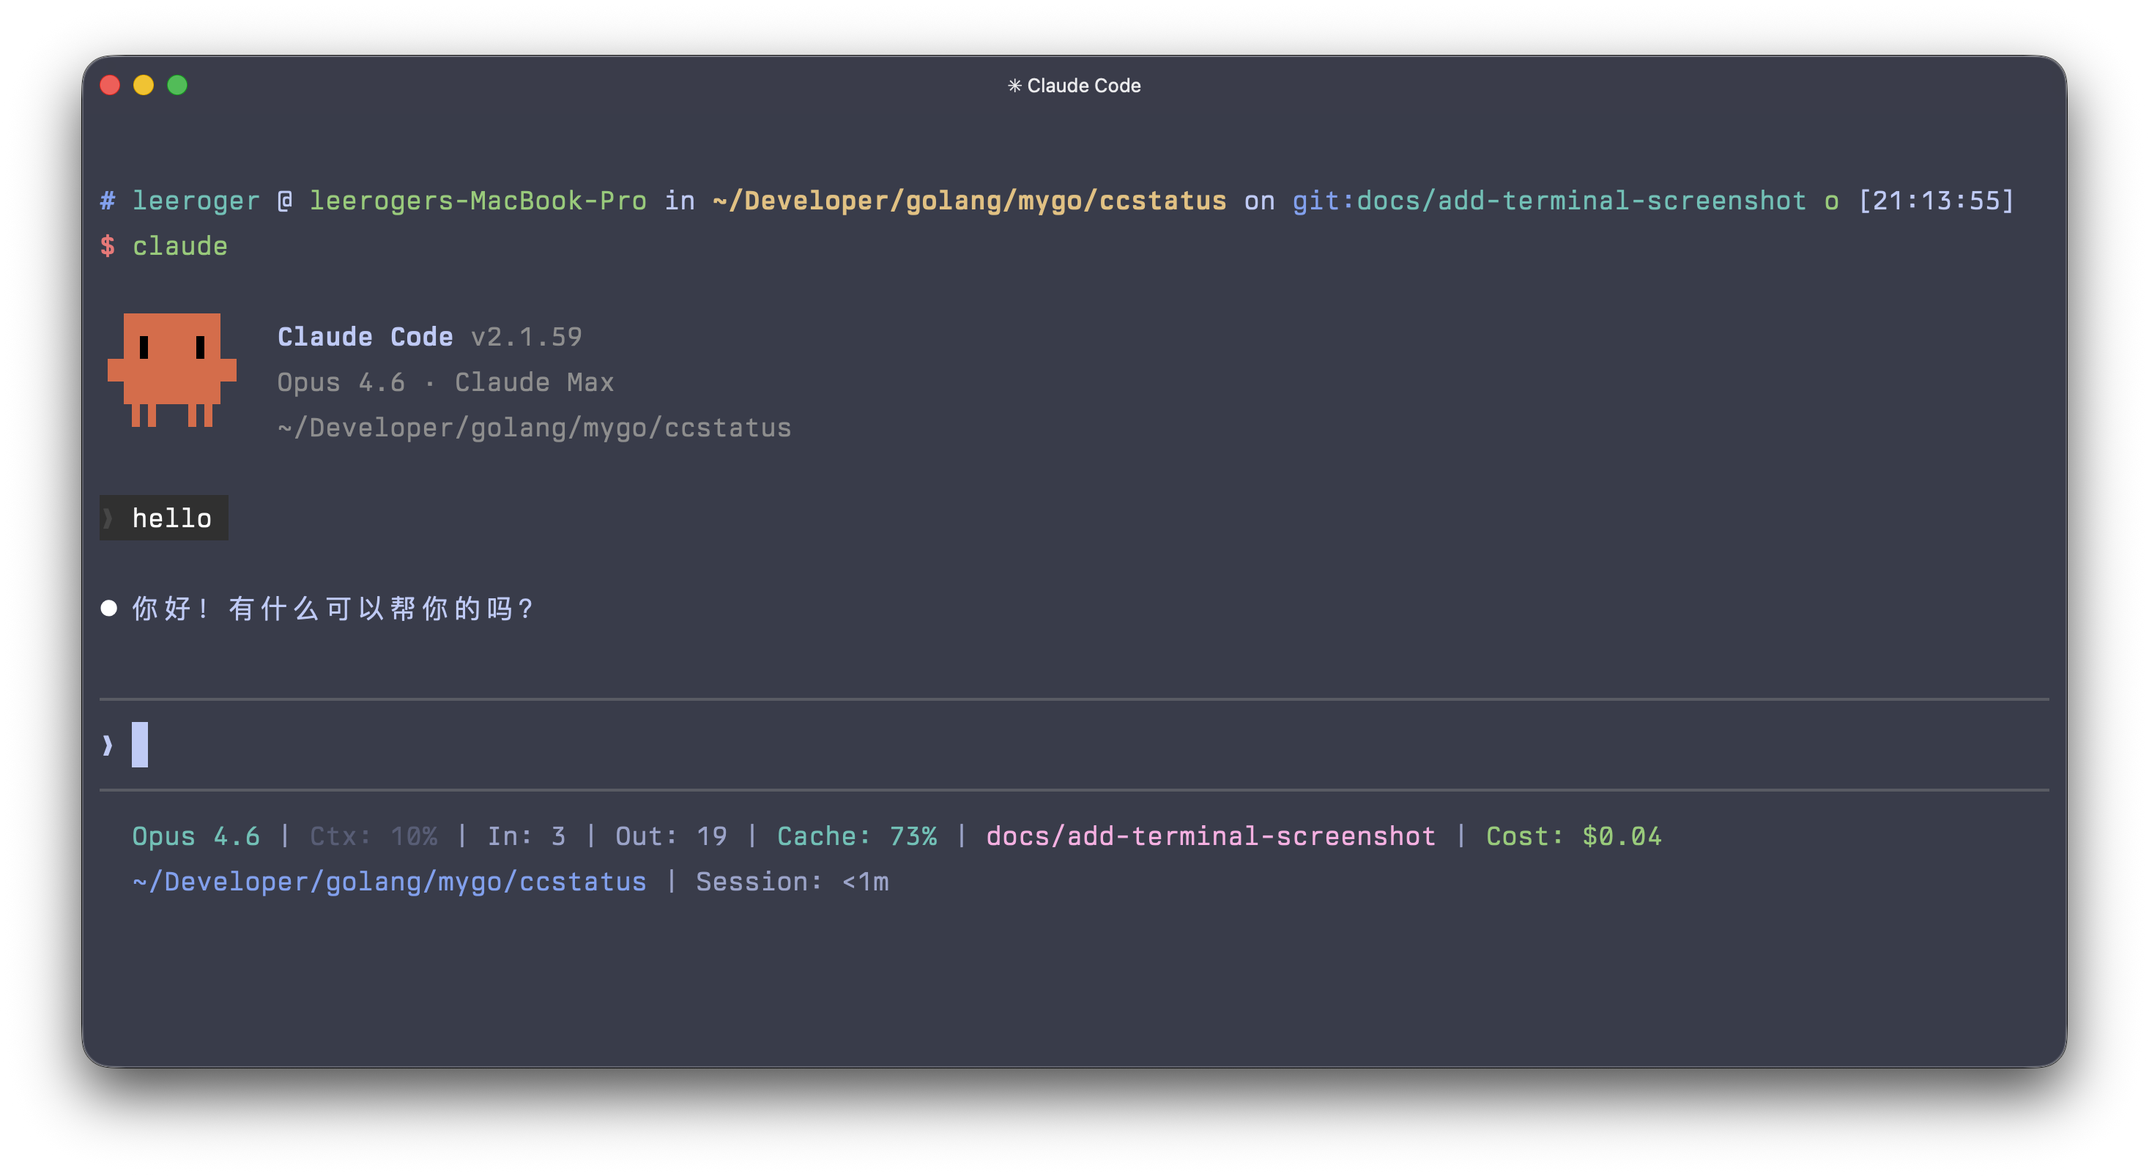
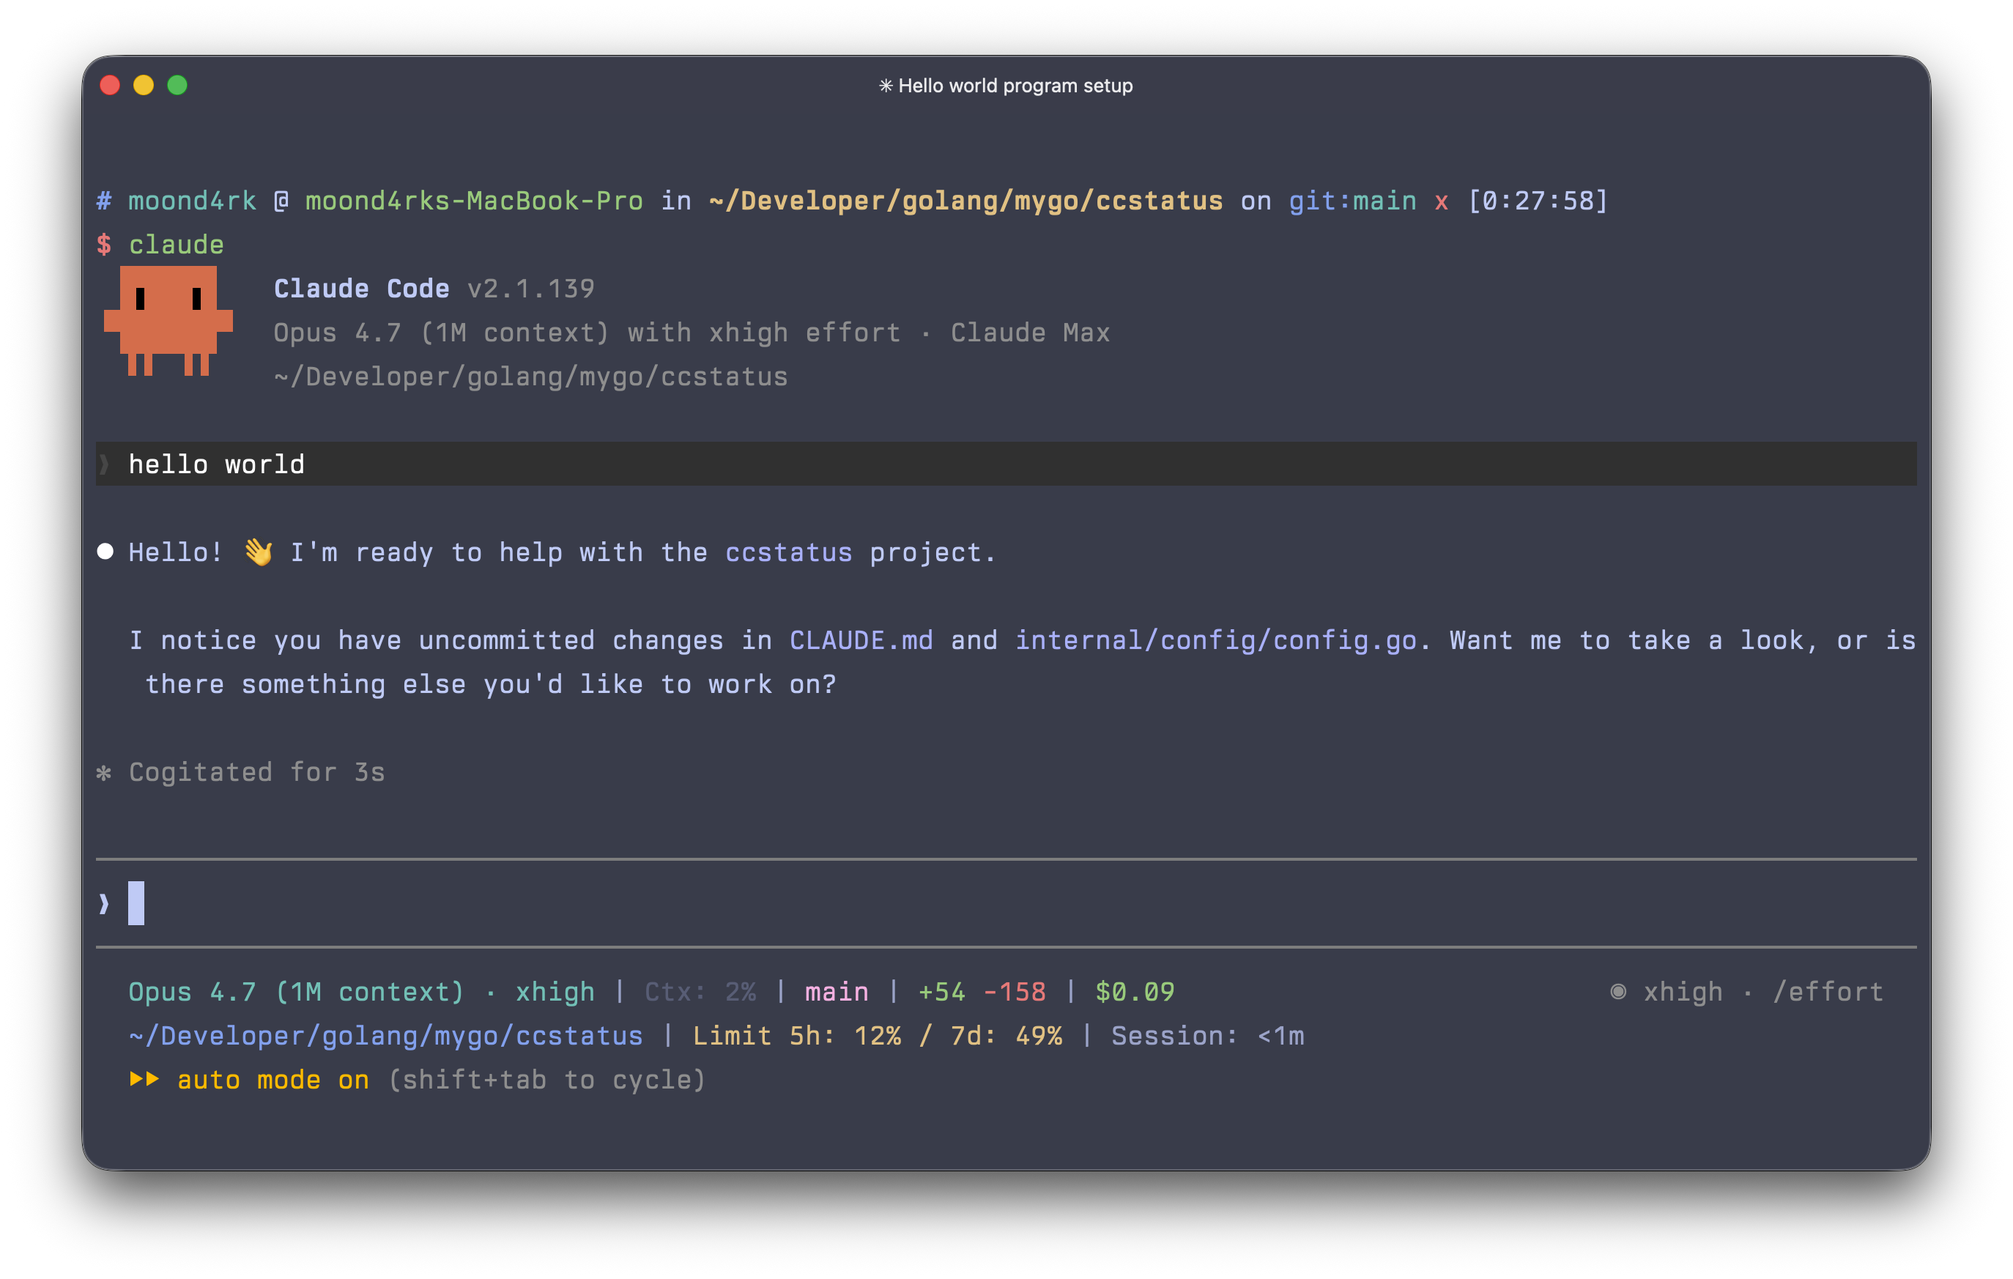
chore: slim CLAUDE.md & README; effort widget defaults to cyan (#25)
CLAUDE.md cut from ~190 to ~50 lines (drop the widget list, deps
section, etc.); README cleanups (Default Layout trimmed, Binary
install section removed, `full` flex padding fixed to -10, refreshed
screenshot); `effort` default color magenta -> cyan to match the model.

diff --git a/internal/config/config.go b/internal/config/config.go
@@ -43,7 +43,7 @@ func DefaultSettings() Settings {
 			{
 				// model · effort | context % | git branch worktree | +added -removed | $cost
 				{ID: "1", Type: "model", Color: "cyan"},
-				{ID: "2", Type: "effort", Color: "magenta", Prefix: "· "},
+				{ID: "2", Type: "effort", Color: "cyan", Prefix: "· "},
 				{ID: "3", Type: "separator"},
 				{ID: "4", Type: "context-percentage", Color: "brightBlack"},
 				{ID: "5", Type: "separator"},

diff --git a/internal/widget/widget.go b/internal/widget/widget.go
@@ -224,7 +224,7 @@ var registry = map[string]Widget{
 			}
 			return data.Effort.Level
 		},
-		defaultColor:  "magenta",
+		defaultColor:  "cyan",
 		displayName:   "Reasoning Effort",
 		description:   "Current reasoning effort level",
 		defaultPrefix: "Effort: ",

diff --git a/internal/widget/widget_test.go b/internal/widget/widget_test.go
@@ -1593,7 +1593,7 @@ func TestEffortWidget(t *testing.T) {
 		assert.Empty(t, w.Render(&item, ctx, &settings))
 	})
 
-	assert.Equal(t, "magenta", w.DefaultColor())
+	assert.Equal(t, "cyan", w.DefaultColor())
 }
 
 func TestThinkingWidget(t *testing.T) {

diff --git a/CLAUDE.md b/CLAUDE.md
@@ -2,187 +2,56 @@
 
 This file provides guidance to Claude Code (claude.ai/code) when working with code in this repository.
 
-## Mandatory Rules
-
-- **English Only**: All code, comments, documentation, and commit messages MUST be in English
-- **No Emoji**: Never use emoji in any file (code, docs, comments, commits)
-- **No Local Paths**: Never expose local machine paths in code, tests, or documentation
-- **No Backward Compatibility**: Breaking changes are acceptable. Prioritize optimal design and elegant code over backward compatibility
-- **No Powerline Support**: This project intentionally excludes Powerline rendering
-- **No TUI**: This project uses manual JSON config editing, no interactive TUI
-
 ## Project Overview
 
-**ccstatus** is a Go implementation of a customizable status line formatter for Claude Code CLI. It reads JSON from stdin, renders a formatted status line with model info, git status, token usage, and other metrics, then outputs ANSI-colored text to stdout.
+ccstatus is a Go reimplementation of the TypeScript [ccstatusline](https://github.com/sirmalloc/ccstatusline): a single static binary that formats the Claude Code CLI status line. Claude Code pipes session JSON to stdin; ccstatus reads `~/.config/ccstatus/settings.json`, renders one ANSI-colored line per configured row, and prints them to stdout. Config is hand-edited JSON — no interactive TUI, no Powerline.
 
-## Build and Development Commands
+## Development Commands
 
 ```bash
-go test ./...                                          # Run all tests
-go test -cover ./...                                   # Run tests with coverage
-go test -run TestTokenMetrics ./...                     # Run single test
-golangci-lint run                                      # Run linter
-gofumpt -l -w .                                        # Format (stricter than gofmt)
-goimports -w -local github.com/moond4rk/ccstatus .     # Format imports
-go build -o ccstatus ./cmd/ccstatus                    # Build binary
-go install ./cmd/ccstatus                              # Install to $GOBIN
+# Build / install
+go build -o ccstatus ./cmd/ccstatus
+go install ./cmd/ccstatus
+
+# Test
+go test ./...
+go test -cover ./...
+
+# Lint (golangci-lint v2)
+golangci-lint run
+
+# Format (gofumpt is stricter than gofmt)
+gofumpt -l -w .
+goimports -w -local github.com/moond4rk/ccstatus .
+
+# Spelling
+typos
+
+# Dependencies
+go mod tidy
+
+# Smoke test — replays what Claude Code pipes in
+echo '{"model":{"id":"claude-opus-4-7","display_name":"Opus"},"context_window":{"used_percentage":25,"context_window_size":200000}}' | ccstatus
 ```
 
-## Architecture
+## How It Works
 
-### Runtime Mode
+Claude Code pipes session JSON to stdin. ccstatus parses it (`internal/status`), loads `~/.config/ccstatus/settings.json` (`internal/config`; `$XDG_CONFIG_HOME` respected), and for each configured row renders every widget via the registry, applies colors, expands `flex-separator` to fill the terminal width, truncates, then post-processes (spaces → U+00A0 for VSCode; prepend `\x1b[0m` since Claude Code dims the status area) — see `internal/render` and `internal/widget`.
 
-Single mode: piped JSON processor (no TUI). Claude Code pipes JSON session data to stdin,
-ccstatus renders ANSI-colored status line to stdout.
+Subcommands: `ccstatus init` (write default settings.json), `validate`, `install` / `uninstall` (manage the `statusLine` block in `~/.claude/settings.json`, or `$CLAUDE_CONFIG_DIR/`; `install` takes `--refresh N` and `--hide-vim-indicator`), `dump` (save the raw Claude Code JSON to `/tmp/ccstatus-dump.json`), `widgets` (list all widget types).
 
-```
-echo '{"model":{"id":"claude-sonnet-4-5","display_name":"Sonnet"},"context_window":{"used_percentage":25}}' | ccstatus
-```
+~44 widgets implement `Widget` (`Render` / `DefaultColor` / `DisplayName` / `Description` / `SupportsRawValue`), registered in a map keyed by type string in `internal/widget/widget.go`; generic templates (`tokenWidget`, `percentageWidget`, `stringFieldWidget`, `RateLimitWidget`) back most of them. Data sources: Claude Code JSON, `git` commands, the JSONL transcript (`block-timer` fallback only), the system. `ccstatus widgets` lists them all; `README.md` has per-widget detail.
 
-### CLI Flags
+## Conventions
 
-- `ccstatus --init` - Generate default settings.json
-- `ccstatus --validate` - Validate settings.json
-- `ccstatus --install` - Register in Claude Code settings.json
-- `ccstatus --uninstall` - Remove from Claude Code settings.json
-- `ccstatus --version` - Print version
-
-### Core Components
-
-| Package | Purpose |
-|---------|---------|
-| `cmd/ccstatus/` | Main entry point, stdin reading, CLI flags |
-| `internal/config/` | Settings loading, defaults, validation, migration |
-| `internal/render/` | Status line rendering, color application, truncation |
-| `internal/widget/` | Widget interface, registry, all widget implementations |
-| `internal/status/` | Session input struct parsing (official Claude Code JSON schema) |
-| `internal/jsonl/` | JSONL transcript parsing (block-timer widget only) |
-| `internal/color/` | ANSI color output via fatih/color, standard 16 named colors |
-| `internal/jsonl/` | JSONL transcript parsing (block-timer widget) |
-| `internal/git/` | Git branch, changes, worktree detection |
-| `internal/claude/` | Claude Code settings.json integration |
-| `internal/terminal/` | Terminal width detection |
-
-### Widget System
-
-All widgets implement a common interface:
-
-```go
-type Widget interface {
-    Render(item config.WidgetItem, ctx RenderContext, settings config.Settings) string
-    DefaultColor() string
-    DisplayName() string
-    Description() string
-    SupportsRawValue() bool
-}
-```
-
-Widgets are registered in a map-based registry keyed by type string.
-
-### Available Widgets (44 registered)
-
-Data source: (J) = from Claude Code JSON input, (G) = from git commands, (T) = from JSONL transcript, (S) = from system
-
-- **model** (J) - Current Claude model name
-- **version** (J) - Claude Code version
-- **output-style** (J) - Output style name (from output_style.name)
-- **session-id** (J) - Claude Code session ID
-- **session-name** (J) - Custom session name (from session_name, only with --name / /rename)
-- **session-clock** (J) - Session duration (from cost.total_duration_ms)
-- **session-cost** (J) - Session cost in USD (from cost.total_cost_usd)
-- **git-branch** (G) - Current git branch
-- **git-changes** (G) - Uncommitted changes count
-- **git-worktree** (G/J) - Git worktree name (workspace.git_worktree, then worktree.name, then git command)
-- **tokens-input** (J) - Input tokens in current context incl. cache (from context_window.total_input_tokens; ~= context-length since CC v2.1.132)
-- **tokens-output** (J) - Output tokens from the most recent API response (from context_window.total_output_tokens)
-- **tokens-cached** (J) - Cached token count (from context_window.current_usage.cache_read_input_tokens)
-- **tokens-total** (J) - Tokens currently in the context window (input + output)
-- **current-usage-input** (J) - Current round input tokens (from context_window.current_usage)
-- **current-usage-output** (J) - Current round output tokens (from context_window.current_usage)
-- **cache-creation** (J) - Cache creation input tokens (from context_window.current_usage)
-- **context-length** (J) - Context window usage in tokens (from context_window.current_usage)
-- **context-percentage** (J) - Context usage as percentage (from context_window.used_percentage)
-- **context-percentage-usable** (J) - Usable context percentage (80% of max)
-- **remaining-percentage** (J) - Remaining context window percentage (from context_window.remaining_percentage)
-- **cache-hit-rate** (J) - Cache read token ratio as percentage (from context_window.current_usage)
-- **exceeds-200k** (J) - Warning when tokens exceed 200k threshold (from exceeds_200k_tokens)
-- **api-duration** (J) - API response time (from cost.total_api_duration_ms)
-- **block-timer** (J/T) - 5-hour block timer (from rate_limits.five_hour.resets_at, then cost.total_duration_ms, then JSONL)
-- **rate-limits** (J) - Combined 5h/7d rate-limit usage, e.g. "5h: 3% / 7d: 12%" (from rate_limits; Pro/Max only; each window shown only when present; default prefix "Limit ")
-- **rate-limit-5h** (J) - 5-hour rate-limit usage (from rate_limits.five_hour; Pro/Max only; metadata.display: percent/bar/reset/full, metadata.barWidth)
-- **rate-limit-7d** (J) - 7-day rate-limit usage (from rate_limits.seven_day; Pro/Max only; metadata.display: percent/bar/reset/full, metadata.barWidth)
-- **current-working-dir** (J) - Current directory (from workspace.current_dir)
-- **project-dir** (J) - Project root directory (from workspace.project_dir)
-- **transcript-path** (J) - Transcript file path (from transcript_path)
-- **added-dirs** (J) - Directories added via /add-dir (from workspace.added_dirs; metadata.display: list for names)
-- **lines-changed** (G) - Git diff lines changed (+N/-M)
-- **lines-added** (G) - Git diff lines added
-- **lines-removed** (G) - Git diff lines removed
-- **vim-mode** (J) - Vim mode indicator (from vim.mode, only when vim enabled)
-- **agent-name** (J) - Agent name (from agent.name, only with --agent flag)
-- **effort** (J) - Reasoning effort level (from effort.level, only when the model supports it)
-- **thinking** (J) - Extended thinking indicator (from thinking.enabled)
-- **terminal-width** (S) - Terminal width in columns
-- **custom-text** (-) - User-defined static text
-- **custom-command** (S) - Execute shell command, display output
-- **separator** (-) - Visual separator character
-- **flex-separator** (-) - Expands to fill remaining width
-
-### Configuration
-
-Settings stored at `~/.config/ccstatus/settings.json`. Manual editing only.
-
-`terminalWidth` (int, optional): force the status line width when auto-detection is wrong. Claude Code runs the status line command with stdio piped (not a TTY), so `terminal.Width()` often falls back to 80; setting `terminalWidth` overrides that.
-
-### Claude Code Integration
-
-Reads/writes `~/.claude/settings.json` (or `$CLAUDE_CONFIG_DIR/settings.json`):
-
-```json
-{
-  "statusLine": {
-    "type": "command",
-    "command": "ccstatus",
-    "padding": 0
-  }
-}
-```
-
-`ccstatus install` accepts optional flags: `--refresh N` writes `refreshInterval` (re-run every N seconds), `--hide-vim-indicator` writes `hideVimModeIndicator` (suppress Claude Code's built-in `-- INSERT --`). Both keys are omitted when the flag is unset.
-
-## Code Quality Standards
-
-### Naming Conventions
-
-- Exported types: PascalCase (Settings, Widget, RenderContext)
-- Internal types: camelCase (registry, colorMap)
-- Interfaces: Descriptive names (Widget, Renderer)
-- Constants: PascalCase for exported, camelCase for internal
-
-### Documentation Requirements
-
-Every exported type and function MUST have Go doc comments starting with the identifier name.
-
-### Testing Requirements
-
-- Table-driven tests for widget rendering and config parsing
-- Never hardcode local paths in tests
-- Test with both valid and malformed JSON inputs
-
-## Dependencies
-
-### Runtime
-
-- `github.com/fatih/color` - ANSI color output
-- `github.com/spf13/cobra` - CLI framework
-- `github.com/tidwall/gjson` - Efficient JSONL field extraction
-- `golang.org/x/term` - Terminal width detection
-
-### Test
-
-- `github.com/stretchr/testify` - Unit testing (required)
+- **English only, no emoji** — code, comments, docs, commit messages. Never put local machine paths in code, tests, or docs.
+- **Breaking changes are fine** — prefer the best design over backward compatibility. No Powerline rendering. No interactive TUI.
+- **Doc comments** — every exported type and function has a Go doc comment that starts with the identifier name.
+- **Comments** — only when they earn their keep; one short line, the *why* not the *what*.
+- **Naming** — exported `PascalCase` (`Settings`, `Widget`); internal `camelCase` (`registry`).
+- **Tests** — table-driven with `testify`; cover valid *and* malformed JSON; never hardcode local paths.
 
 ## Reference
 
-- Official Claude Code status line documentation: https://code.claude.com/docs/en/statusline
+- Official Claude Code status line docs: https://code.claude.com/docs/en/statusline
 - Original TypeScript implementation: https://github.com/sirmalloc/ccstatusline

diff --git a/README.md b/README.md
@@ -35,19 +35,13 @@ brew install moond4rk/tap/ccstatus
 go install github.com/moond4rk/ccstatus/cmd/ccstatus@latest
 ```
 
-### Binary
-
-Download a prebuilt binary from [GitHub Releases](https://github.com/moond4rk/ccstatus/releases).
-
-> **Note:** ccstatus is a native Go binary and does not require Node.js. Unlike JS-based tools that use `npx`, ccstatus is best installed via Homebrew or `go install` for optimal performance.
-
 ## Quick Start
 
 ```bash
 # Generate default settings
 ccstatus init
 
-# Register in Claude Code
+# Register in Claude Code (re-run anytime to update; --refresh N / --hide-vim-indicator optional)
 ccstatus install
 ```
 
@@ -148,7 +142,7 @@ Lists all registered widget types with their descriptions and default colors.
 
 ```bash
 # Default: read JSON from stdin, render status line
-echo '{"model":{"id":"claude-opus-4-6","display_name":"Opus"}}' | ccstatus
+echo '{"model":{"id":"claude-opus-4-7","display_name":"Opus"}}' | ccstatus
 
 # Replay captured dump data
 cat /tmp/ccstatus-dump.json | ccstatus
@@ -160,25 +154,21 @@ Settings are stored at `~/.config/ccstatus/settings.json`. Edit manually to cust
 
 ### Default Layout
 
-The default configuration uses a 2-line layout. Widgets that have nothing to show (e.g. `effort`, `rate-limit-5h`, `git-worktree`, `session-name`, `vim-mode`, `agent-name`) are simply omitted, so the line stays compact when they don't apply.
+A lean 2-line layout. Widgets with nothing to show — `effort`, `git-worktree`, `rate-limits` — are dropped, so a plain session collapses to `model | Ctx% | branch | +/- | $` over `cwd | Session`.
 
-**Line 1:** model · effort | context % | git branch + worktree | lines +/- | session cost (`$`)
+**Line 1:** `model · effort | context % | git branch + worktree | lines +/- | session cost`
 
-**Line 2:** working directory | rate limits (5h / 7d) | session clock
-
-Example renders:
+**Line 2:** `working directory | rate limits (5h/7d) | session clock`
 
 ```
-Opus 4.7 (1M context) · xhigh | Ctx: 36% | main feat-x | +12 -3 | $0.34
+Opus 4.7 (1M context) · max | Ctx: 36% | main feat-x | +12 -3 | $0.34
 ~/dev/myproj | Limit 5h: 3% / 7d: 12% | Session: 2h15m
-```
 
-```
 Sonnet | Ctx: 12% | main | +4 | $0.05
 ~/dev/myproj | Session: 30m
 ```
 
-The default is deliberately lean. Widgets with nothing to show (`effort`, `rate-limits`, `git-worktree`) are simply omitted, so a plain session collapses to `model | Ctx% | branch | +/- | $` over `cwd | Session`. Claude Code runs the status line command with stdout piped (not a TTY), so width auto-detection can fall back to ~80 columns; if a long model name plus all of line 1's widgets gets truncated with `...`, set `terminalWidth` (or widen the terminal). To customize — add `cache-hit-rate` / `session-name`, swap `rate-limits` for the per-window `rate-limit-5h` (which supports `metadata.display: bar`/`reset`/`full`), etc. — edit `lines` in `settings.json`.
+To customize, edit the `lines` array in `settings.json` — e.g. swap `rate-limits` for the per-window `rate-limit-5h` (`metadata.display`: `bar`/`reset`/`full`), or add `cache-hit-rate`. (If line 1 is getting truncated with `...`, see `terminalWidth` below.)
 
 ### Settings Reference
 
@@ -207,7 +197,7 @@ The default is deliberately lean. Widgets with nothing to show (`effort`, `rate-
 | Field | Type | Default | Description |
 |-------|------|---------|-------------|
 | `version` | int | `4` | Config schema version |
-| `colorLevel` | int | `2` | Color level: `0` (none), `1` (basic), `2` (256-color terminal) |
+| `colorLevel` | int | `2` | `0` disables color; any value `>= 1` enables ANSI 16-color output |
 | `flexMode` | string | `"full-until-compact"` | How flex separator calculates available width |
 | `compactThreshold` | int | `90` | Context % at which `full-until-compact` switches to the wider (−40 col) right margin |
 | `terminalWidth` | int | (auto) | Force the status line width in columns. Claude Code runs the status line command with stdio piped, so width auto-detection often falls back to 80 regardless of terminal size — set this (e.g. `180`) to make ccstatus use your real width. Leave unset/`0` to auto-detect. |
@@ -236,9 +226,9 @@ The default is deliberately lean. Widgets with nothing to show (`effort`, `rate-
 
 | Mode | Description |
 |------|-------------|
-| `full` | Terminal width - 6 characters |
+| `full` | Terminal width - 10 characters |
 | `full-minus-40` | Terminal width - 40 characters |
-| `full-until-compact` | Switch to -40 when context % >= compactThreshold (default) |
+| `full-until-compact` | Terminal width - 10, switching to - 40 once context % >= `compactThreshold` (default) |
 
 ### Available Colors
 
@@ -286,7 +276,7 @@ The default is deliberately lean. Widgets with nothing to show (`effort`, `rate-
 | `lines-removed` | Git | Lines removed | red |
 | `vim-mode` | JSON | Vim mode indicator | yellow |
 | `agent-name` | JSON | Agent name | cyan |
-| `effort` | JSON | Reasoning effort level | magenta |
+| `effort` | JSON | Reasoning effort level | cyan |
 | `thinking` | JSON | Extended thinking indicator | magenta |
 | `exceeds-200k` | JSON | Warning at 200k tokens | red |
 | `terminal-width` | System | Terminal width in columns | white |
